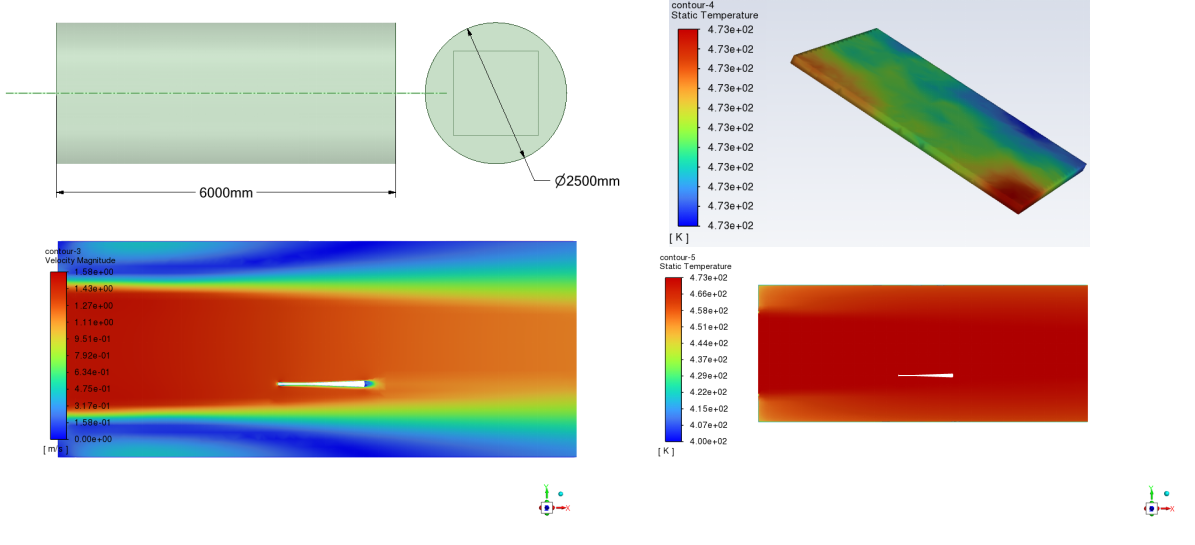
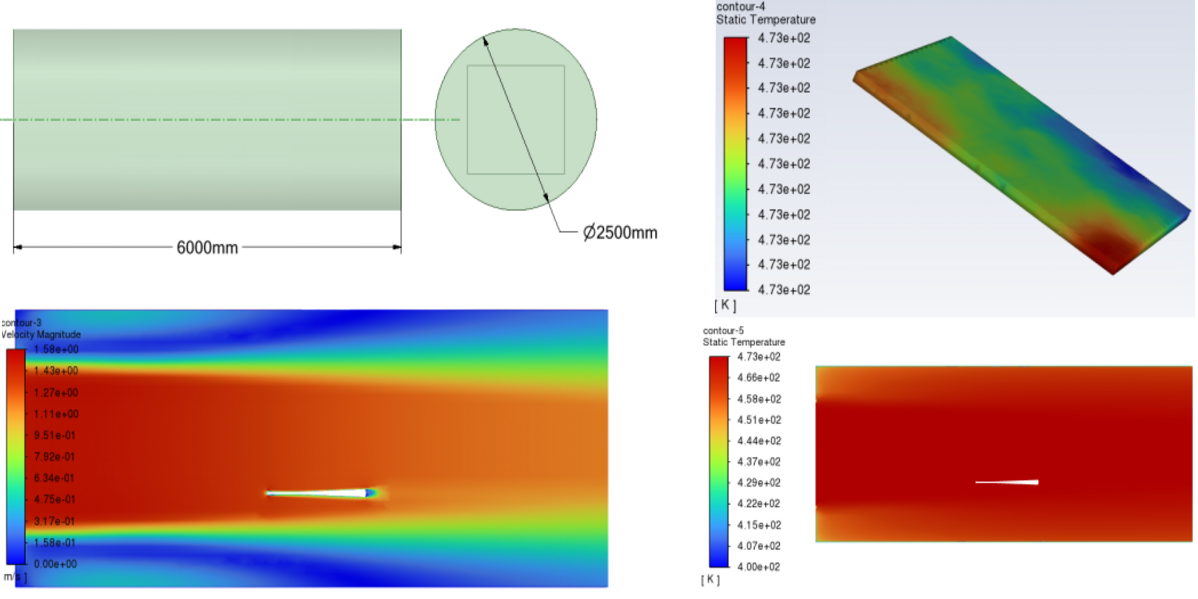
adjust the photos

diff --git a/index.htm b/index.htm
@@ -27,7 +27,7 @@
                 <p>My name is Qi, Runyu(<ruby>柒<rp>(</rp><rt>q&#299;</rt><rp>)</rp></ruby><ruby>润<rp>(</rp><rt>r&#249;n</rt><rp>)</rp></ruby><ruby>宇<rp>(</rp><rt>y&#468;</rt><rp>)</rp></ruby>). Sam7 is a username I use. People often call me 7g.</p>
                 <p>I was born in Yinchuan, Ningxia, China. Sagittarius&#9808;.</p>
                 <p>I major in Materials Science and Engineering, while work as a Network Engineer as a hobby.</p>
-                <p>I am a foodie, an <em>unconventional</em> <abbr title="Science, Technology, Engineering and Math">STEM</abbr> student and a truth seeker, having a great passion for various natural sciences and trans-/inter-disciplinary research.</p>
+                <p>I am a foodie, an <em>unconventional</em> <abbr title="Science, Technology, Engineering and Math">STEM</abbr> student and a truth seeker, having a great passion for various sciences and trans-/inter-disciplinary research.</p>
             </section>
 
             <section id="about">
@@ -38,65 +38,73 @@
                 <p>Bachelor of Engineering, Materials Science and Engineering, <span style="color:#fff;background-color:#660874;">Tsinghua University</span>, 2019 - 2023</p>
                 <hr>
                 <h3>RESEARCH</h3>
-                    <h4>Detection of Perchlorate and TNT using <abbr title="Raman Spectroscopy">SERS</abbr> and Electrochemical Techniques</h4>
-                    
-                    <h4>Nano ZrO<sub>2</sub> Reinforced Dental <abbr title="Poly(methyl methacrylate)">PMMA</abbr>-Based Resin for Stereolithography Additive Manufacturing</h4>
+                <h4>Detection of Perchlorate and TNT using <abbr title="Raman Spectroscopy">SERS</abbr> and Electrochemical Techniques</h4>
+                                
+                <h4>Nano ZrO<sub>2</sub> Reinforced Dental <abbr title="Poly(methyl methacrylate)">PMMA</abbr>-Based Resin for Stereolithography Additive Manufacturing</h4>
+                <div class="gallery">
                     <div class="figure">
-                        <img src="images/figures/teeth.png">
+                        <img style="height: 250px;" src="images/figures/teeth.png">
                         <p>3D-printed teeth model made with the resin</p>
                     </div>
                     <div class="figure">
-                        <div class="image-container"><img src="images/figures/500x.jpg"><img src="images/figures/1000x.jpg"></div>                            <p>SEM images of the bending fracture surface (left: 500x, right: 1000x)</p>
+                        <div class="image-container">
+                            <img style="height: 250px;" src="images/figures/500x.jpg"><img style="height: 250px;"img src="images/figures/1000x.jpg">
+                        </div>                           
+                        <p>SEM images of the bending fracture surface (left: 500x, right: 1000x)</p>
                     </div>
-                    <div class="clearfix"></div>
+                </div>
 
-                    <h4>A Review on <abbr title="Polydimethylsiloxane">PDMS</abbr>-based Electronic Skin and Self-healing Property</h4>
+                <h4>A Review on <abbr title="Polydimethylsiloxane">PDMS</abbr>-based Electronic Skin and Self-healing Property</h4>
+                <div class="gallery">
                     <div class="figure">
                         <a href="files/PDMS_based_Electronic_Skin_and_Self_healing_Property.pdf">
-                          <img src="images/figures/poster.png" alt="Academic poster on PDMS and e-skins" title="download the poster">
+                          <img style="width: 765px;" src="images/figures/poster.png" alt="Academic poster on PDMS and e-skins" title="View the poster">
                         </a>
                         <p>Academic review poster</p>
-                      </div>
-                    <div class="clearfix"></div>
+                    </div>
+                </div>
                     
-                    <h4><abbr title="Finite Element Method">FEM</abbr> Simulation of Autoclave and Development of Scripts & Extensions</h4>
+                    
+                <h4><abbr title="Finite Element Method">FEM</abbr> Simulation of Autoclave and Development of Scripts & Extensions</h4>
+                <div class="gallery">
                     <div class="figure">
-                        <img src="images/figures/fem.png">
+                        <img style="width: 765px;" src="images/figures/fem.png">
                         <p>CFD simulation of autoclave processing</p>
                     </div>
                     <div class="figure">
                         <div class="image-container">
-                            <img src="images/figures/anime.gif"><img src="images/figures/wizard.png">
+                            <img style="object-fit: contain; height: 369px;" src="images/figures/anime.gif"><img style="height: 368px;" src="images/figures/wizard.png">
                         </div>
                         <p>Automatic modeling and simulation scripts and extensions</p>
                     </div>
-                    <div class="clearfix"></div>
+                </div>            
 
-                    <h4>3D Printing of Glass Fiber Reinforced Plastic by Stereolithography</h4>
+                <h4>3D Printing of Glass Fiber Reinforced Plastic by Stereolithography</h4>
+                <div class="gallery">
                     <div class="figure">
-                        <img src="images/figures/slash2.png">
+                        <img style="height: 273px;" src="images/figures/slash2.png">
                         <p>Working desktop LCD 3D printer </p>
                     </div>
-
                     <div class="figure">
                         <div class="image-container">
-                            <img src="images/figures/without.png"><img src="images/figures/with.png">
+                            <img style="height: 273px;" src="images/figures/without.png"><img style="height: 273px;"  src="images/figures/with.png">
                         </div>
                         <p>SEM images of the tensile fracture surface (left: blank control, right: fiber-reinforced )</p>
                     </div>
-                    <div class="clearfix"></div>
+                </div>
 
-                    <h4>Development of Metallic Glass Full-spectrum Visible-light Filter</h4>
+                <h4>Development of Metallic Glass Full-spectrum Visible-light Filter</h4>
+                <div class="gallery">
                     <div class="figure">
-                        <img src="images/figures/srt.png"> 
+                        <img style="width: 765px;" src="images/figures/srt.png"> 
                         <p>Metallic glass with different colors, based on the work of <a href="https://doi.org/10.1007/s40843-020-1628-6">Zhang. Y. et al.</a>.</p>
                     </div>
-                    <div class="clearfix"></div>
+                </div>
 
-                    <h4></h4>
+                <h4></h4>
 
-                    <hr>
-                    <h3>ACTIVITIES</h3>
+                <hr>
+                <h3>ACTIVITIES</h3>
 
             </section>
 

diff --git a/styles.css b/styles.css
@@ -57,38 +57,30 @@ section {
     border-bottom: 3px solid #222;
 }
 
+.gallery {
+    width: 800px;
+    display: flex;
+    flex-wrap: wrap;
+}
 
-.figure {
-    margin: 5px;
-    width: min-content;
+.gallery .figure {
+    margin-top: 5px;
+    margin-left: 5px;
+    margin-right: 15px;
     border: 1px solid #777;
-    float: left;
-    display: inline-flex;
+    display: flex;
     flex-direction: column;
     align-items: center;
 }
 
-.figure img {
-    height: 250px;
-    width: auto;
-    object-fit: contain;
-}
-
-.image-container {
+.gallery .figure .image-container {
     display: flex; 
     flex-direction: row;
+    max-width: 100%;
 }
 
-.figure p {
-    margin-left: 8px;
-    text-align: left;
+.gallery .figure p {
     font-size: 12px;
-}
-
-.clearfix:after {
-    content: "";
-    display: table;
-    clear: both;
 }
 
 .icon {
